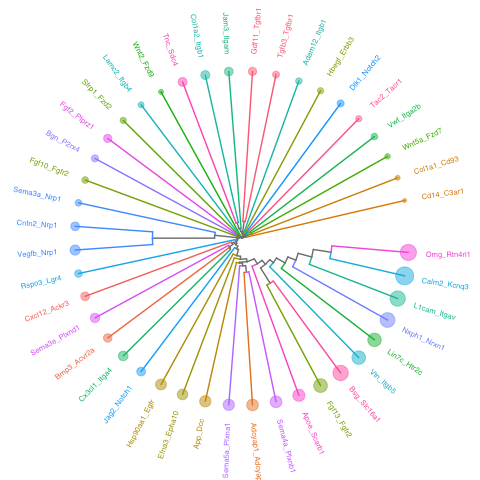
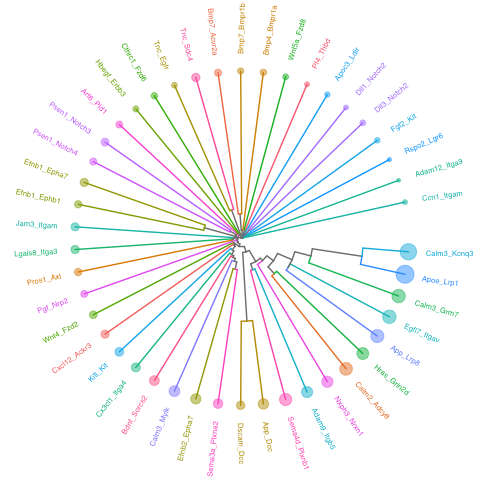
merged

diff --git a/README.md b/README.md
@@ -77,16 +77,16 @@ LRdb_m %>%
 #> # A tibble: 105 × 10
 #>    LR    ligand_gene_symbol receptor_gene_symbol ligand_gene_id receptor_gene_id
 #>    <chr> <chr>              <chr>                         <dbl>            <dbl>
-#>  1 Ada_… Ada                Dpp4                          11486            13482
-#>  2 Adam… Adam12             Itgb1                         11489            16412
-#>  3 Adam… Adam2              Itgb1                         11495            16412
-#>  4 Adcy… Adcyap1            Adcyap1r1                     11516            11517
-#>  5 Angp… Angptl4            Gpihbp1                       57875            68453
-#>  6 Apob… Apob               Scarb1                       238055            20778
-#>  7 Apoe… Apoe               Scarb1                        11816            20778
-#>  8 Apoe… Apoe               Sdc1                          11816            20969
-#>  9 App_… App                Dcc                           11820            13176
-#> 10 Bgn_… Bgn                P2rx4                         12111            18438
+#>  1 Adam… Adam12             Itga9                         11489           104099
+#>  2 Adam… Adam17             Itgb6                         11491            16420
+#>  3 Adam… Adam17             Rhbdf2                        11491           217344
+#>  4 Adam… Adam9              Itgb5                         11502            16419
+#>  5 Alka… Alkal2             Alk                       100294583            11682
+#>  6 Amh_… Amh                Amhr2                         11705           110542
+#>  7 Angp… Angptl3            Itgb3                         30924            16416
+#>  8 Anxa… Anxa1              Fpr2                          16952            14289
+#>  9 Apob… Apob               Cd36                         238055            12491
+#> 10 Apoc… Apoc3              Ldlr                          11814            16835
 #> # ℹ 95 more rows
 #> # ℹ 5 more variables: ligand_ensembl_protein_id <chr>,
 #> #   receptor_ensembl_protein_id <chr>, ligand_ensembl_gene_id <chr>,
@@ -143,7 +143,7 @@ ccc_tbl <- compute_spatial_ccc(spe = spe,
                                assay_name = "logcounts",
                                LRdb = LRdb_m)
 tictoc::toc()
-#> 7.082 sec elapsed
+#> 7.142 sec elapsed
 
 # future::plan(future::sequential)
 ```
@@ -151,20 +151,20 @@ tictoc::toc()
 ``` r
 ccc_tbl %>% 
   dplyr::arrange(desc(LRscore))
-#> # A tibble: 126,643 × 10
+#> # A tibble: 128,873 × 10
 #>    src         dst       d norm.d LR    ligand receptor LRscore  weight WLRscore
 #>    <chr>       <chr> <dbl>  <dbl> <chr> <chr>  <chr>      <dbl>   <dbl>    <dbl>
-#>  1 TTACCCTAAC… CGAG…  138.   1.01 Calm… Calm2  Kcnq3      0.857   0.980    0.840
-#>  2 TGGGAAATGC… CGAG…  137    1    Calm… Calm2  Kcnq3      0.857   1        0.857
-#>  3 ACATAATAAG… TAAT…  138.   1.00 Calm… Calm2  Kcnq3      0.855   0.992    0.848
-#>  4 AACATATCAA… AACA…    0    0    Calm… Calm2  Kcnq3      0.855 Inf      Inf    
-#>  5 TTACCCTAAC… AAAG…  137    1    Calm… Calm2  Kcnq3      0.855   1        0.855
-#>  6 TGGGAAATGC… AAAG…  138.   1.01 Calm… Calm2  Kcnq3      0.854   0.980    0.837
-#>  7 CGTGGCCGAA… AGTT…  138.   1.01 Calm… Calm2  Kcnq3      0.854   0.980    0.837
-#>  8 TGGTAGAATA… AGTT…  138    1.01 Calm… Calm2  Kcnq3      0.854   0.986    0.842
-#>  9 TGGGAAATGC… AGAG…  138.   1.01 Calm… Calm2  Kcnq3      0.854   0.980    0.836
-#> 10 CACAGCTAGG… GTAT…  138    1.01 Calm… Calm2  Kcnq3      0.853   0.986    0.841
-#> # ℹ 126,633 more rows
+#>  1 TCTTCTATAA… TCTT…    0    0    Apoe… Apoe   Lrp1       0.885 Inf      Inf    
+#>  2 TTGTTAGCAA… TTGT…    0    0    Apoe… Apoe   Lrp1       0.881 Inf      Inf    
+#>  3 ACCGCGGTGG… TCTT…  138.   1.00 Apoe… Apoe   Lrp1       0.880   0.992    0.873
+#>  4 GCAACAGCAG… TCTT…  138.   1.01 Apoe… Apoe   Lrp1       0.879   0.980    0.861
+#>  5 TGCTGGTTGG… TTGT…  138.   1.01 Apoe… Apoe   Lrp1       0.878   0.980    0.860
+#>  6 TCGTCCGCTG… TTGT…  137    1    Apoe… Apoe   Lrp1       0.877   1        0.877
+#>  7 CCATGCTCTG… TTGT…  138.   1.01 Apoe… Apoe   Lrp1       0.876   0.980    0.858
+#>  8 GTTATTAACG… GTTA…    0    0    Apoe… Apoe   Lrp1       0.875 Inf      Inf    
+#>  9 ATCGCCAGTC… TCTT…  138    1.01 Apoe… Apoe   Lrp1       0.875   0.986    0.863
+#> 10 TTCGCTATCT… GGCT…  138.   1.01 Apoe… Apoe   Lrp1       0.875   0.980    0.857
+#> # ℹ 128,863 more rows
 ```
 
 Let’s add cell cluster IDs to ccc_tbl, one for `src` and the other for
@@ -194,7 +194,7 @@ ccc_graph_list <-
   to_spatial_ccc_graph_list(ccc_tbl, sp_col_data, workers = 6)
 
 tictoc::toc()
-#> to_spatical_ccc_graph ...: 11.074 sec elapsed
+#> to_spatical_ccc_graph ...: 12.054 sec elapsed
 ```
 
 summarize_ccc_graph_metrics() summarize those graph metrics for each LR
@@ -207,26 +207,26 @@ ccc_graph_metrics_summary_df <-
   summarize_ccc_graph_metrics(ccc_graph_list)
 
 tictoc::toc()
-#> 0.059 sec elapsed
+#> 0.061 sec elapsed
 ```
 
 ``` r
 ccc_graph_metrics_summary_df %>%
   arrange(graph_component_count)
-#> # A tibble: 43 × 12
+#> # A tibble: 45 × 12
 #>    LR        graph_n_nodes graph_n_edges graph_component_count graph_motif_count
 #>    <chr>             <int>         <dbl>                 <dbl>             <int>
-#>  1 Nxph1_Nr…          2469          8058                     3             16003
-#>  2 Calm2_Kc…          2695         13601                     3             24403
-#>  3 Bsg_Slc1…          2615          9099                     3             18391
-#>  4 Vtn_Itgb5          2220          6467                     6             11896
-#>  5 L1cam_It…          2346          8950                     6             16831
-#>  6 Omg_Rtn4…          2475         10304                     6             18611
-#>  7 Fgf13_Fg…          2363          6621                    16             13251
-#>  8 Apoe_Sca…          2241          4755                    24              9936
-#>  9 Lin7c_Ht…          2027          6279                    30             11346
-#> 10 Sema4a_P…          1870          4343                    32              7632
-#> # ℹ 33 more rows
+#>  1 Apoe_Lrp1          2701         17454                     3             27822
+#>  2 Egfl7_It…          2338          8135                     3             15373
+#>  3 Calm3_Kc…          2694         13606                     3             24413
+#>  4 App_Lrp8           2524          7503                     6             15469
+#>  5 Calm2_Ad…          2396          6832                     7             14032
+#>  6 Sema4d_P…          2110          6156                     9             11215
+#>  7 Calm3_Gr…          2544          8044                     9             16327
+#>  8 Adam9_It…          1975          4639                    19              8156
+#>  9 Hras_Gri…          2177          5633                    19             11524
+#> 10 Adam12_I…            85            61                    35                21
+#> # ℹ 35 more rows
 #> # ℹ 7 more variables: graph_diameter <dbl>, graph_un_diameter <dbl>,
 #> #   graph_mean_dist <dbl>, graph_circuit_rank <dbl>, graph_reciprocity <dbl>,
 #> #   graph_clique_num <int>, graph_clique_count <int>
@@ -242,25 +242,25 @@ ccc_graph_group_metrics_summary_df <-
   summarize_ccc_graph_metrics(ccc_graph_list, level = "group")
 
 tictoc::toc()
-#> 0.056 sec elapsed
+#> 0.058 sec elapsed
 ```
 
 ``` r
 ccc_graph_group_metrics_summary_df 
-#> # A tibble: 3,180 × 12
-#>    LR         group group_n_nodes group_n_edges group_adhesion group_motif_count
-#>    <chr>      <int>         <int>         <dbl>          <dbl>             <int>
-#>  1 Apoe_Scar…     1          1359          2988              0              6276
-#>  2 Apoe_Scar…     3            57           118              0               235
-#>  3 Apoe_Scar…     2           607          1360              0              2852
-#>  4 Apoe_Scar…     6            23            28              0                65
-#>  5 Apoe_Scar…     5            28            49              0               105
-#>  6 Apoe_Scar…    11             7             7              0                15
-#>  7 Apoe_Scar…    24             4             4              0                 3
-#>  8 Apoe_Scar…    12             7             7              0                15
-#>  9 Apoe_Scar…     9            10            14              0                28
-#> 10 Apoe_Scar…     7            15            21              0                34
-#> # ℹ 3,170 more rows
+#> # A tibble: 3,506 × 12
+#>    LR       group group_n_nodes group_n_edges group_adhesion group_motif_count
+#>    <chr>    <int>         <int>         <dbl>          <dbl>             <int>
+#>  1 Kitl_Kit     9            19            31              0                55
+#>  2 Kitl_Kit    23            10            12              0                22
+#>  3 Kitl_Kit    55             3             2              0                 1
+#>  4 Kitl_Kit    20            12            20              0                32
+#>  5 Kitl_Kit     8            20            26              0                37
+#>  6 Kitl_Kit    56             3             2              0                 1
+#>  7 Kitl_Kit    11            18            26              0                53
+#>  8 Kitl_Kit    10            19            23              0                36
+#>  9 Kitl_Kit     5            35            59              0                90
+#> 10 Kitl_Kit    37             6             6              0                10
+#> # ℹ 3,496 more rows
 #> # ℹ 6 more variables: group_diameter <dbl>, group_un_diameter <dbl>,
 #> #   group_mean_dist <dbl>, group_girth <dbl>, group_circuit_rank <dbl>,
 #> #   group_reciprocity <dbl>
@@ -439,7 +439,7 @@ cell_overlap_dist <-
   dist_cell_overlap_ccc_tbl(ccc_tbl)
 
 tictoc::toc()
-#> 0.304 sec elapsed
+#> 0.325 sec elapsed
 ```
 
 ``` r
@@ -449,7 +449,7 @@ cell_overlap_lf <-
   lf_cell_overlap_ccc_tbl(ccc_tbl)
 
 tictoc::toc()
-#> 0.338 sec elapsed
+#> 0.353 sec elapsed
 ```
 
 ``` r
